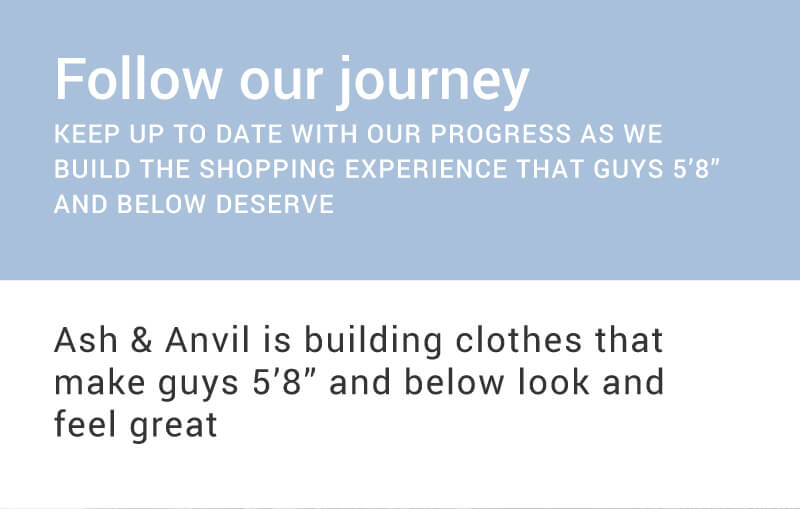
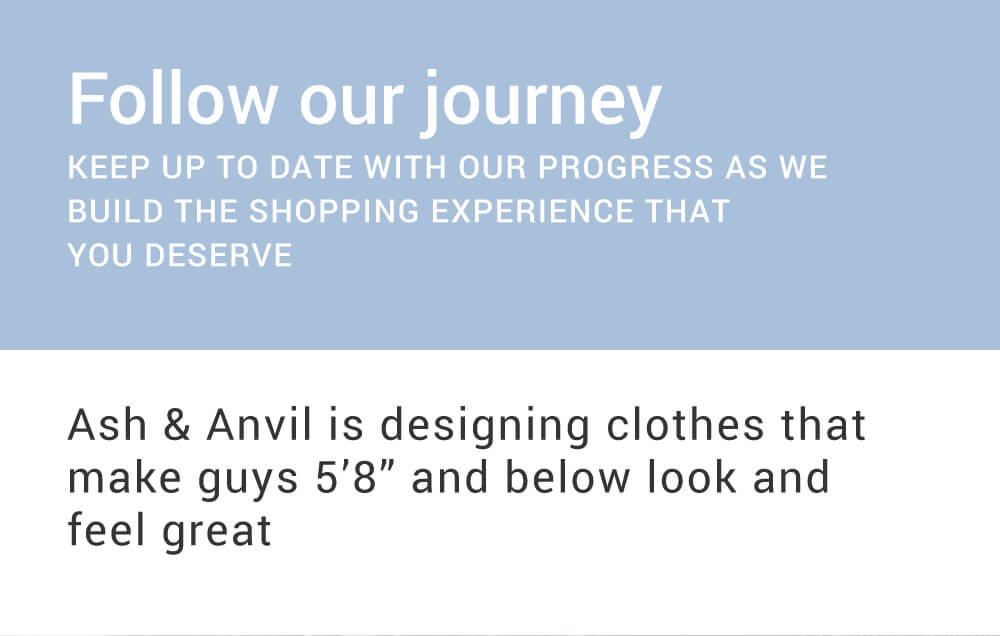
Updating images and content

diff --git a/index.html b/index.html
@@ -22,8 +22,6 @@
 		<a href="ourjourney.html"><img src="images/mobile-below-hero.jpg" class="mobile" alt="Follow the Ash &amp; Anvil journey to build the shopping experience guys 5'8&quot; and below deserve" style="width: 100%;"></a>
 		<a href="ourjourney.html"><img src="images/below-hero.jpg" class="desktop" alt="Follow the Ash &amp; Anvil journey to build the shopping experience guys 5'8&quot; and below deserve" style="width: 100%;"></a>
 
-		<img src="images/sub-hero.jpg" class="desktop" style="width: 100%;">
-
 		<img src="images/mobile-promise.jpg" class="mobile" alt="The Ash &amp; Anvil Promise - We're empowering guys 5'8&quot; and below to reach their dreams whatever they might be" style="width: 100%;">
 		<img src="images/promise.jpg" class="desktop" alt="The Ash &amp; Anvil Promise - We're empowering guys 5'8&quot; and below to reach their dreams whatever they might be" style="width: 100%;">
 
@@ -69,7 +67,7 @@
 
 	<div id="signupModal" class="reveal-modal" data-reveal aria-labelledby="modalTitle" aria-hidden="true" role="dialog" style="min-height: inherit;">
 		<h2 id="modalTitle">We're launching soon!</h2>
-		<p class="lead">We’re empowering shorter guys to reach their dreams whatever they might be. Keep up to date with our progress as we build the shopping experience that guys 5’8” and under deserve.</p>
+		<p class="lead">We’re committed to designing the perfect fit for guys 5’8” and below. Our Everyday Shirt is the first step to building the shopping experience that you deserve.</p>
 		
 		<div class="row layout-row" style="padding-top: 0; padding-bottom: 1em;">
 			<div class="large-12 columns embedded">
